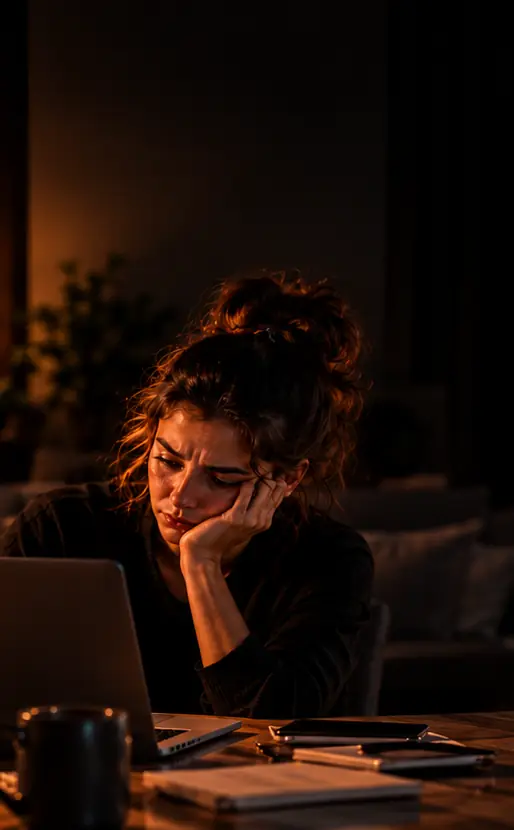
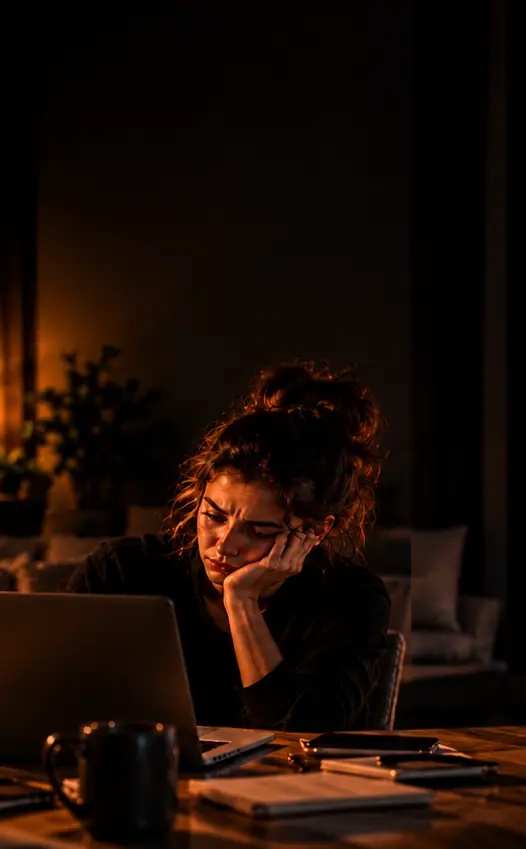
coaching v3: tercer fondo de donde se cae, encuadrado a la derecha

diff --git a/src/coaching/index.html b/src/coaching/index.html
@@ -819,7 +819,7 @@
     /* ---------- 02 · DONDE SE CAE ---------- */
     .d3 { background: #05080D; }
     .d3 .foto { background-image: url(/assets/coach3-cae.webp); }
-    .d3 .foto { background-position: center 60%; }  /* fondo nuevo 2026-10-07: la chica agobiada bajo el texto */
+    .d3 .foto { background-position: 100% 70%; }  /* fondo nuevo 2026-10-07: la chica agobiada bajo el texto */
     .d3 .velo { background: linear-gradient(90deg, rgba(4,6,10,.55) 0%, rgba(4,6,10,.25) 26%, rgba(4,6,10,0) 42%); }
     .d3 .caja { display: grid; grid-template-columns: minmax(0, 420px) minmax(0, 1fr); gap: clamp(20px, 2vw, 32px); padding-right: max(22px, 3vw) !important; align-items: start; padding-top: 44px; padding-bottom: 36px; }
     .d3-txt { padding-top: 22px; }
